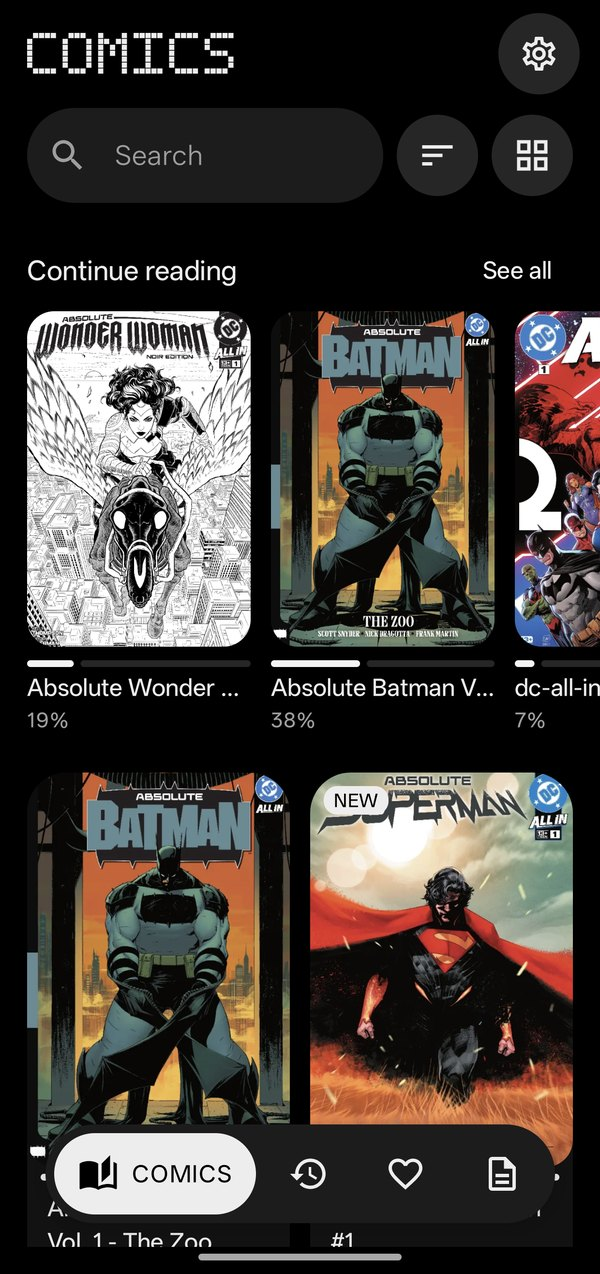
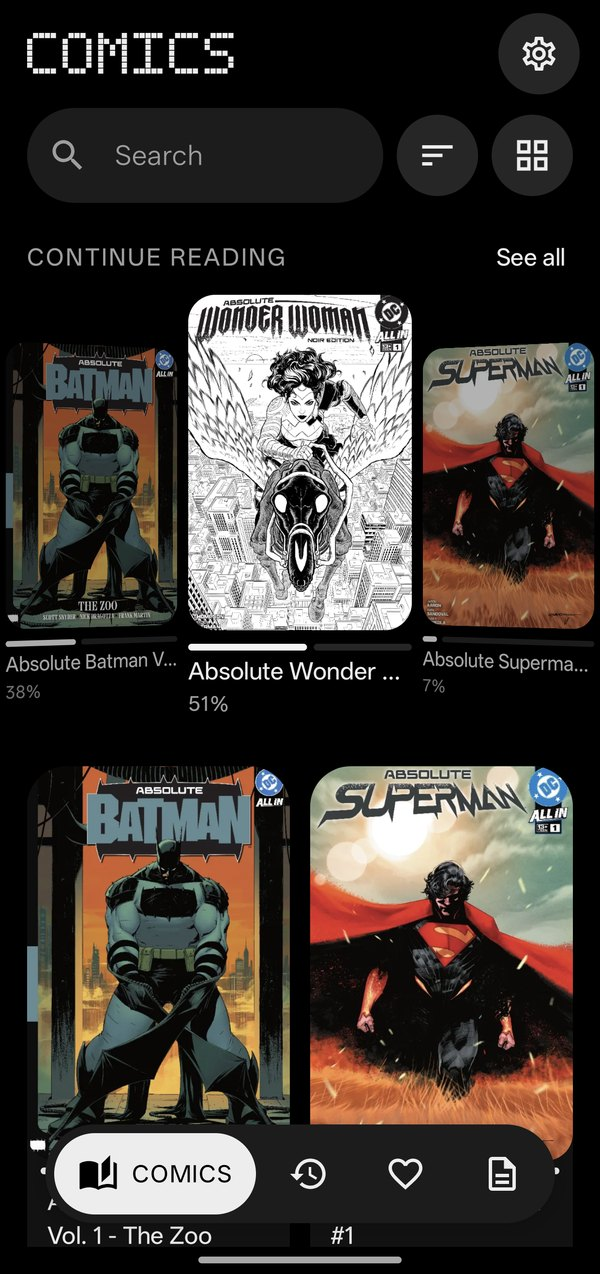
README: retake the library screenshot with the Continue reading wheel

diff --git a/README.md b/README.md
@@ -5,7 +5,7 @@
 **[Download the latest APK](https://github.com/therahul-yo/Absolutex/releases/latest)** · [Website](https://absolutex.vercel.app/)
 
 <p align="center">
-  <img src="docs/screenshots/library.jpg" width="200" alt="The library: pixel-block title, a Continue reading strip and a grid of comic covers, with a floating section bar">
+  <img src="docs/screenshots/library.jpg" width="200" alt="The library: pixel-block title, the Continue reading wheel with the current book centred, and a grid of comic covers under a floating section bar">
   <img src="docs/screenshots/reader.jpg" width="200" alt="A comic page open in the reader, edge to edge on true black">
   <img src="docs/screenshots/reader-controls.jpg" width="200" alt="The reader's controls: page thumbnails, a seek slider and a bookmark">
 </p>
